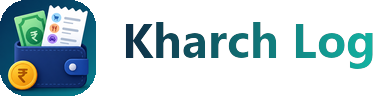
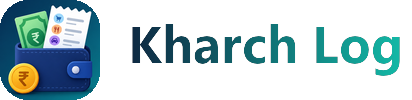
Fix g descender in brand-lockup (ink-bbox regen)

diff --git a/index.html b/index.html
@@ -176,7 +176,7 @@
   <header class="site-header">
     <div class="site-header__inner">
       <a class="brand-lockup" href="/" aria-label="Kharch Log home">
-        <img src="/brand-lockup.png" alt="Kharch Log" height="40" width="160" />
+        <img src="/brand-lockup.png" alt="Kharch Log" height="40" width="165" />
       </a>
       <nav class="site-nav" aria-label="Primary">
         <div class="nav-dropdown">
@@ -513,7 +513,7 @@
   <footer class="site-footer">
     <div class="site-footer__inner">
       <div class="site-footer__brand">
-        <img src="/brand-lockup.png" alt="Kharch Log" height="28" width="112" />
+        <img src="/brand-lockup.png" alt="Kharch Log" height="28" width="115" />
       </div>
       <nav aria-label="Footer">
         <a href="/">Home</a>

diff --git a/blog/best-free-expense-tracker-app-android/index.html b/blog/best-free-expense-tracker-app-android/index.html
@@ -42,7 +42,7 @@
   <header class="site-header">
     <div class="site-header__inner">
       <a class="brand-lockup" href="/" aria-label="Kharch Log home">
-        <img src="/brand-lockup.png" alt="Kharch Log" height="40" width="160" />
+        <img src="/brand-lockup.png" alt="Kharch Log" height="40" width="165" />
       </a>
       <nav class="site-nav" aria-label="Primary">
         <div class="nav-dropdown">
@@ -112,7 +112,7 @@
   <footer class="site-footer">
     <div class="site-footer__inner">
       <div class="site-footer__brand">
-        <img src="/brand-lockup.png" alt="Kharch Log" height="28" width="112" />
+        <img src="/brand-lockup.png" alt="Kharch Log" height="28" width="115" />
       </div>
       <nav aria-label="Footer">
         <a href="/">Home</a>

diff --git a/blog/how-to-track-your-spending-every-week/index.html b/blog/how-to-track-your-spending-every-week/index.html
@@ -42,7 +42,7 @@
   <header class="site-header">
     <div class="site-header__inner">
       <a class="brand-lockup" href="/" aria-label="Kharch Log home">
-        <img src="/brand-lockup.png" alt="Kharch Log" height="40" width="160" />
+        <img src="/brand-lockup.png" alt="Kharch Log" height="40" width="165" />
       </a>
       <nav class="site-nav" aria-label="Primary">
         <div class="nav-dropdown">
@@ -115,7 +115,7 @@
   <footer class="site-footer">
     <div class="site-footer__inner">
       <div class="site-footer__brand">
-        <img src="/brand-lockup.png" alt="Kharch Log" height="28" width="112" />
+        <img src="/brand-lockup.png" alt="Kharch Log" height="28" width="115" />
       </div>
       <nav aria-label="Footer">
         <a href="/">Home</a>

diff --git a/blog/upi-expense-tracker-stop-losing-small-payments/index.html b/blog/upi-expense-tracker-stop-losing-small-payments/index.html
@@ -42,7 +42,7 @@
   <header class="site-header">
     <div class="site-header__inner">
       <a class="brand-lockup" href="/" aria-label="Kharch Log home">
-        <img src="/brand-lockup.png" alt="Kharch Log" height="40" width="160" />
+        <img src="/brand-lockup.png" alt="Kharch Log" height="40" width="165" />
       </a>
       <nav class="site-nav" aria-label="Primary">
         <div class="nav-dropdown">
@@ -114,7 +114,7 @@
   <footer class="site-footer">
     <div class="site-footer__inner">
       <div class="site-footer__brand">
-        <img src="/brand-lockup.png" alt="Kharch Log" height="28" width="112" />
+        <img src="/brand-lockup.png" alt="Kharch Log" height="28" width="115" />
       </div>
       <nav aria-label="Footer">
         <a href="/">Home</a>

diff --git a/features/google-sheets-sync/index.html b/features/google-sheets-sync/index.html
@@ -24,7 +24,7 @@
   <header class="site-header">
     <div class="site-header__inner">
       <a class="brand-lockup" href="/" aria-label="Kharch Log home">
-        <img src="/brand-lockup.png" alt="Kharch Log" height="40" width="160" />
+        <img src="/brand-lockup.png" alt="Kharch Log" height="40" width="165" />
       </a>
       <nav class="site-nav" aria-label="Primary">
         <div class="nav-dropdown">
@@ -105,7 +105,7 @@
   <footer class="site-footer">
     <div class="site-footer__inner">
       <div class="site-footer__brand">
-        <img src="/brand-lockup.png" alt="Kharch Log" height="28" width="112" />
+        <img src="/brand-lockup.png" alt="Kharch Log" height="28" width="115" />
       </div>
       <nav aria-label="Footer">
         <a href="/">Home</a>

diff --git a/features/manual-voice-entry/index.html b/features/manual-voice-entry/index.html
@@ -24,7 +24,7 @@
   <header class="site-header">
     <div class="site-header__inner">
       <a class="brand-lockup" href="/" aria-label="Kharch Log home">
-        <img src="/brand-lockup.png" alt="Kharch Log" height="40" width="160" />
+        <img src="/brand-lockup.png" alt="Kharch Log" height="40" width="165" />
       </a>
       <nav class="site-nav" aria-label="Primary">
         <div class="nav-dropdown">
@@ -105,7 +105,7 @@
   <footer class="site-footer">
     <div class="site-footer__inner">
       <div class="site-footer__brand">
-        <img src="/brand-lockup.png" alt="Kharch Log" height="28" width="112" />
+        <img src="/brand-lockup.png" alt="Kharch Log" height="28" width="115" />
       </div>
       <nav aria-label="Footer">
         <a href="/">Home</a>

diff --git a/features/reports-insights/index.html b/features/reports-insights/index.html
@@ -24,7 +24,7 @@
   <header class="site-header">
     <div class="site-header__inner">
       <a class="brand-lockup" href="/" aria-label="Kharch Log home">
-        <img src="/brand-lockup.png" alt="Kharch Log" height="40" width="160" />
+        <img src="/brand-lockup.png" alt="Kharch Log" height="40" width="165" />
       </a>
       <nav class="site-nav" aria-label="Primary">
         <div class="nav-dropdown">
@@ -105,7 +105,7 @@
   <footer class="site-footer">
     <div class="site-footer__inner">
       <div class="site-footer__brand">
-        <img src="/brand-lockup.png" alt="Kharch Log" height="28" width="112" />
+        <img src="/brand-lockup.png" alt="Kharch Log" height="28" width="115" />
       </div>
       <nav aria-label="Footer">
         <a href="/">Home</a>

diff --git a/features/review-inbox/index.html b/features/review-inbox/index.html
@@ -24,7 +24,7 @@
   <header class="site-header">
     <div class="site-header__inner">
       <a class="brand-lockup" href="/" aria-label="Kharch Log home">
-        <img src="/brand-lockup.png" alt="Kharch Log" height="40" width="160" />
+        <img src="/brand-lockup.png" alt="Kharch Log" height="40" width="165" />
       </a>
       <nav class="site-nav" aria-label="Primary">
         <div class="nav-dropdown">
@@ -105,7 +105,7 @@
   <footer class="site-footer">
     <div class="site-footer__inner">
       <div class="site-footer__brand">
-        <img src="/brand-lockup.png" alt="Kharch Log" height="28" width="112" />
+        <img src="/brand-lockup.png" alt="Kharch Log" height="28" width="115" />
       </div>
       <nav aria-label="Footer">
         <a href="/">Home</a>

diff --git a/features/share-invoice/index.html b/features/share-invoice/index.html
@@ -24,7 +24,7 @@
   <header class="site-header">
     <div class="site-header__inner">
       <a class="brand-lockup" href="/" aria-label="Kharch Log home">
-        <img src="/brand-lockup.png" alt="Kharch Log" height="40" width="160" />
+        <img src="/brand-lockup.png" alt="Kharch Log" height="40" width="165" />
       </a>
       <nav class="site-nav" aria-label="Primary">
         <div class="nav-dropdown">
@@ -105,7 +105,7 @@
   <footer class="site-footer">
     <div class="site-footer__inner">
       <div class="site-footer__brand">
-        <img src="/brand-lockup.png" alt="Kharch Log" height="28" width="112" />
+        <img src="/brand-lockup.png" alt="Kharch Log" height="28" width="115" />
       </div>
       <nav aria-label="Footer">
         <a href="/">Home</a>

diff --git a/features/sms-auto-capture/index.html b/features/sms-auto-capture/index.html
@@ -24,7 +24,7 @@
   <header class="site-header">
     <div class="site-header__inner">
       <a class="brand-lockup" href="/" aria-label="Kharch Log home">
-        <img src="/brand-lockup.png" alt="Kharch Log" height="40" width="160" />
+        <img src="/brand-lockup.png" alt="Kharch Log" height="40" width="165" />
       </a>
       <nav class="site-nav" aria-label="Primary">
         <div class="nav-dropdown">
@@ -105,7 +105,7 @@
   <footer class="site-footer">
     <div class="site-footer__inner">
       <div class="site-footer__brand">
-        <img src="/brand-lockup.png" alt="Kharch Log" height="28" width="112" />
+        <img src="/brand-lockup.png" alt="Kharch Log" height="28" width="115" />
       </div>
       <nav aria-label="Footer">
         <a href="/">Home</a>

diff --git a/privacy/index.html b/privacy/index.html
@@ -22,7 +22,7 @@
   <header class="site-header">
     <div class="site-header__inner">
       <a class="brand-lockup" href="/" aria-label="Kharch Log home">
-        <img src="/brand-lockup.png" alt="Kharch Log" height="40" width="160" />
+        <img src="/brand-lockup.png" alt="Kharch Log" height="40" width="165" />
       </a>
       <nav class="site-nav" aria-label="Primary">
         <div class="nav-dropdown">
@@ -117,7 +117,7 @@
   <footer class="site-footer">
     <div class="site-footer__inner">
       <div class="site-footer__brand">
-        <img src="/brand-lockup.png" alt="Kharch Log" height="28" width="112" />
+        <img src="/brand-lockup.png" alt="Kharch Log" height="28" width="115" />
       </div>
       <nav aria-label="Footer">
         <a href="/">Home</a>

diff --git a/terms/index.html b/terms/index.html
@@ -22,7 +22,7 @@
   <header class="site-header">
     <div class="site-header__inner">
       <a class="brand-lockup" href="/" aria-label="Kharch Log home">
-        <img src="/brand-lockup.png" alt="Kharch Log" height="40" width="160" />
+        <img src="/brand-lockup.png" alt="Kharch Log" height="40" width="165" />
       </a>
       <nav class="site-nav" aria-label="Primary">
         <div class="nav-dropdown">
@@ -115,7 +115,7 @@
   <footer class="site-footer">
     <div class="site-footer__inner">
       <div class="site-footer__brand">
-        <img src="/brand-lockup.png" alt="Kharch Log" height="28" width="112" />
+        <img src="/brand-lockup.png" alt="Kharch Log" height="28" width="115" />
       </div>
       <nav aria-label="Footer">
         <a href="/">Home</a>
